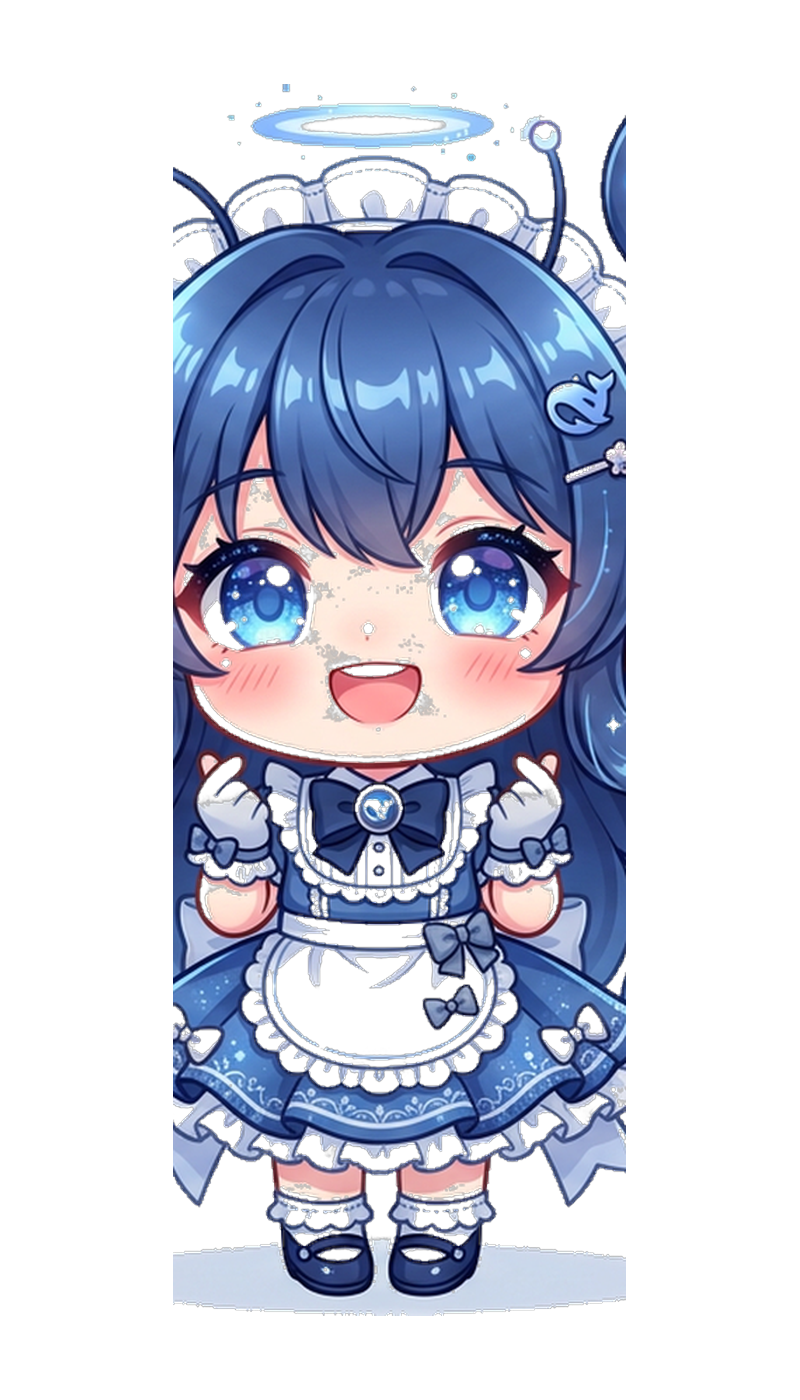
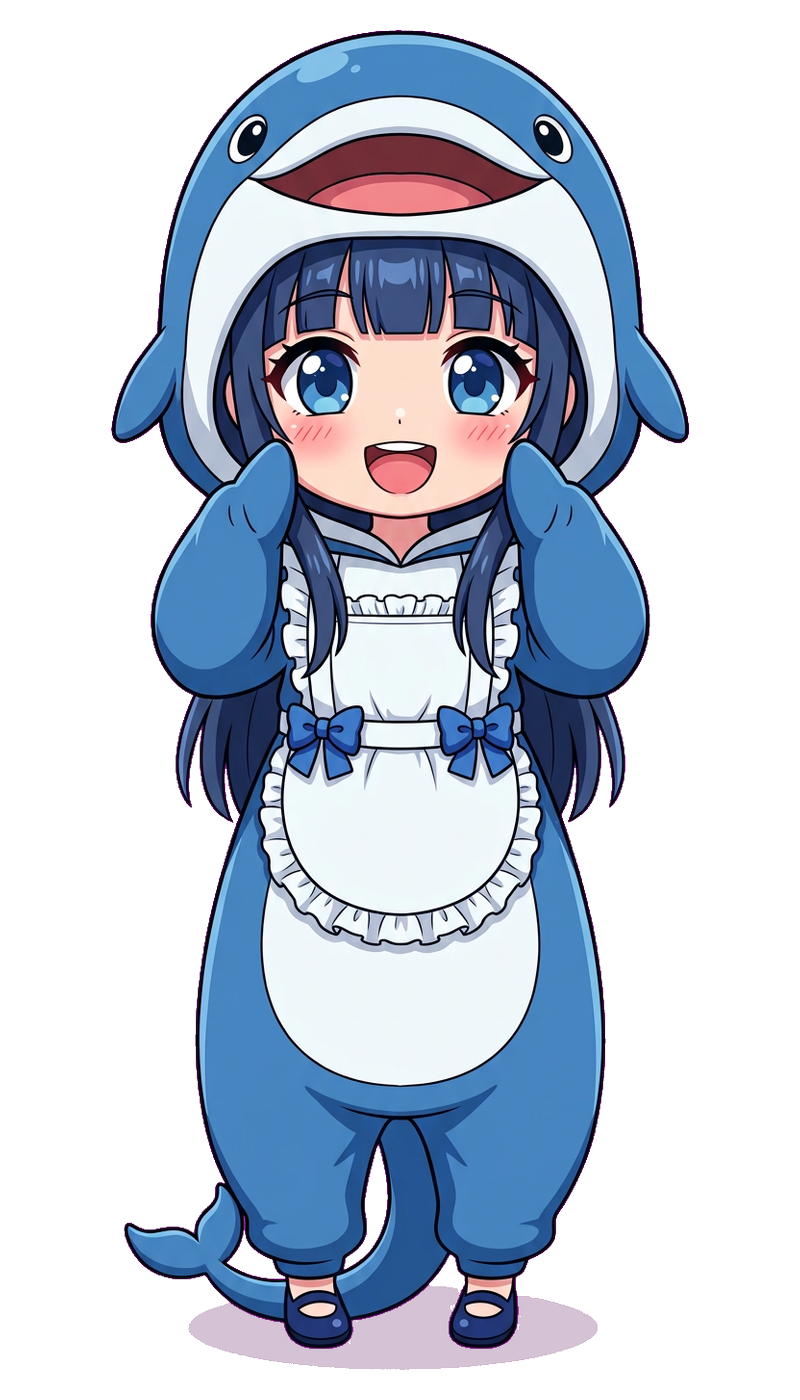
Q 版方向定稿：原创鲸鱼连体衣（大肥鱼梗造型）替换 deepseek chibi 素材；路线图记录决策

diff --git a/docs/PRODUCT_ROADMAP.md b/docs/PRODUCT_ROADMAP.md
@@ -37,3 +37,8 @@
 - 已实装对照：刘海/侧发L,R/后发L,R/眉/眼睑/眼白(base)/虹膜/高光/口型/整臂L,R/补图/命名清单/对称不合并。
 - 新增排期细目：眼白遮罩（加大视线范围前必补）、刘海左中右三块、AEIOU 多口型组与牙/舌细分、颈部补图（加头部倾斜时立即补）、上身/腰拆分、衣服与肉体分离（领结/前后裙摆）、手臂三段+手指（抓取/扒屏幕前置）、腿/小腿/鞋拆分、后发分段钟摆、呆毛/发饰独立。
 - 与 Live2D/Spine 差异：不用 PSD 骨骼网格；遮罩类需求以 clip 路径或整帧姿态变体实现。
+
+## Q 版形态设计方向（2026-10-10 用户确认）
+- 采用原创"鲸鱼连体衣"Q 版（吸收社区"大肥鱼/小鲸鱼"梗的 silhouette：鲸嘴兜帽、鳍袖、鲸尾），**不直接使用网传二创图**（版权与分层管线原因）。
+- deepseek Q 版已替换：`app/public/characters/deepseek_chibi.png`（800×1400 透明）。
+- 批次④其余 6 角色 Q 版沿用同格式、各换物种连体衣（保持梗格式统一且各具识别度）。
